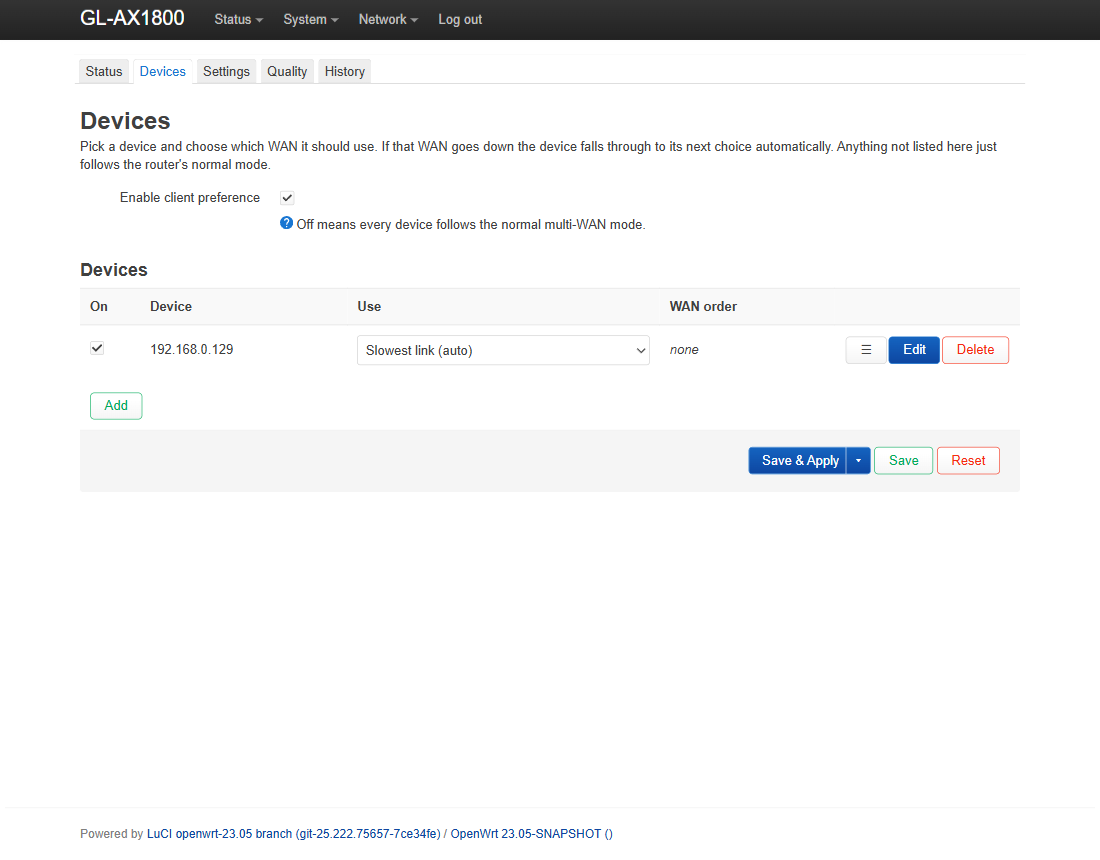
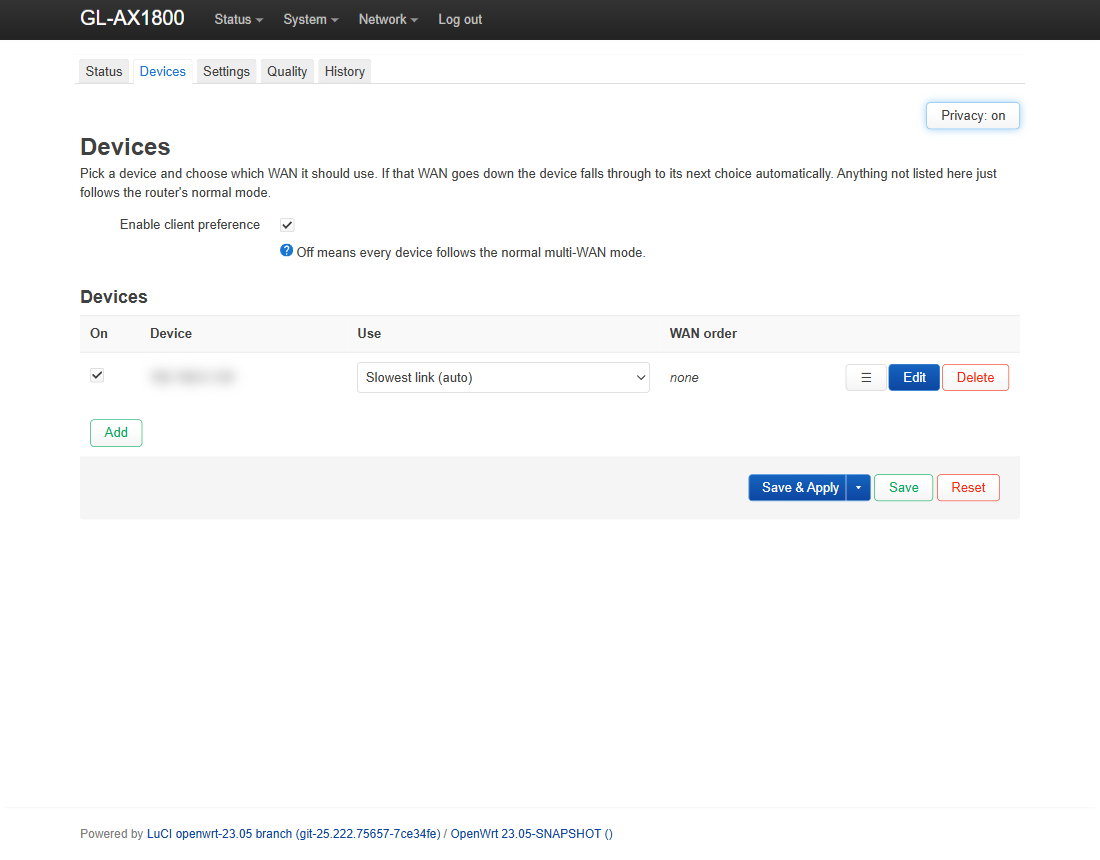
Privacy mode on every tab; tiny README

diff --git a/htdocs/luci-static/resources/multikmwan.js b/htdocs/luci-static/resources/multikmwan.js
@@ -30,4 +30,48 @@ function testTable(tests, limit) {
 
 // LuCI's loader only accepts a class from a module factory (a plain object
 // throws "factory yields invalid constructor"), so export via baseclass.
-return baseclass.extend({ sourceText: sourceText, testTable: testTable });
+// Privacy mode: blur addresses, ISP names, locations, device names and
+// custom server URLs on every MultiKmwan page so a screenshot can be shared
+// as-is. The choice lives in this browser (localStorage) and applies to all
+// tabs; elements opt in with the mk-private class, and LuCI grid cells are
+// matched by their data-name. Nothing leaves the browser.
+var PRIVACY_KEY = 'multikmwan.privacy';
+var PRIVACY_CSS = '.mk-privacy .mk-private,' +
+	'.mk-privacy td[data-name="src"],.mk-privacy td[data-name="label"],' +
+	'.mk-privacy td[data-name="down_url"],.mk-privacy td[data-name="up_url"]' +
+	'{filter:blur(6px);user-select:none}' +
+	'.mk-topbar{display:flex;justify-content:space-between;align-items:center;gap:12px;flex-wrap:wrap}' +
+	'.mk-topbar h2{margin:0}.mk-privacy-btn{white-space:nowrap}';
+
+function privacyOn() {
+	try { return window.localStorage.getItem(PRIVACY_KEY) === '1'; } catch (e) { return false; }
+}
+function applyPrivacy() {
+	try {
+		if (document.documentElement && document.documentElement.classList)
+			document.documentElement.classList.toggle('mk-privacy', privacyOn());
+	} catch (e) { }
+}
+function privacyLabel() { return privacyOn() ? _('Privacy: on') : _('Privacy: off'); }
+
+// A toggle button plus the style it needs; put it in a page header.
+function privacyButton() {
+	var btn = E('button', { 'class': 'cbi-button cbi-button-neutral mk-privacy-btn',
+		'title': _('Blur addresses, providers, locations and device names for screenshots'),
+		'click': function(ev) {
+			if (ev && ev.preventDefault) ev.preventDefault();
+			try { window.localStorage.setItem(PRIVACY_KEY, privacyOn() ? '0' : '1'); } catch (e) { }
+			applyPrivacy();
+			btn.textContent = privacyLabel();
+		} }, privacyLabel());
+	applyPrivacy();
+	return E('span', {}, [ E('style', {}, PRIVACY_CSS), btn ]);
+}
+
+// "<h2>Title</h2> [Privacy]" as one row, for the top of each page.
+function topbar(title, extra) {
+	return E('div', { 'class': 'mk-topbar' }, [ E('h2', {}, title), E('span', {}, [ extra || '', privacyButton() ]) ]);
+}
+
+return baseclass.extend({ sourceText: sourceText, testTable: testTable,
+	privacyOn: privacyOn, privacyButton: privacyButton, topbar: topbar });

diff --git a/htdocs/luci-static/resources/view/multikmwan/overview.js b/htdocs/luci-static/resources/view/multikmwan/overview.js
@@ -228,10 +228,10 @@ return view.extend({
 			if (w.city) where.push(w.city + (w.country ? ', ' + w.country : ''));
 
 			var meta = [
-				E('div', { 'class': 'mk-geo' }, w.pubip
+				E('div', { 'class': 'mk-geo mk-private' }, w.pubip
 					? [ E('b', {}, w.pubip), '   ' + where.join('  ·  ') ]
 					: E('span', { 'class': 'mk-dim' }, _('location not looked up yet'))),
-				E('div', { 'class': 'mk-dim' }, (w.device || '?') + '  ·  ' +
+				E('div', { 'class': 'mk-dim mk-private' }, (w.device || '?') + '  ·  ' +
 					(w.gateway ? 'gw ' + w.gateway : _('no gateway')) +
 					(w.link ? '  ·  ' + _('up ') + dur(w.uptime) : ''))
 			];
@@ -316,8 +316,8 @@ return view.extend({
 				                     : { t: _('pending'), cls: 'mk-warn' }));
 			return E('div', { 'class': 'mk-client' }, [
 				E('span', { 'class': 'mk-pill mk-' + badge.cls }, badge.t),
-				E('b', {}, (c.label && c.label !== '') ? c.label : c.src),
-				E('span', { 'class': 'mk-dim' }, ' ' + c.src + '  →  '),
+				E('b', { 'class': 'mk-private' }, (c.label && c.label !== '') ? c.label : c.src),
+				E('span', { 'class': 'mk-dim mk-private' }, ' ' + c.src + '  →  '),
 				role
 					? E('b', {}, roleLabel[role] || role)
 					: E('span', {}, order.map(function(w, i) {
@@ -634,7 +634,7 @@ return view.extend({
 
 		var body = E('div', {}, [
 			E('style', {}, CSS),
-			E('h2', {}, _('MultiKmwan')),
+			multikmwan.topbar(_('MultiKmwan')),
 			E('div', { 'class': 'mk-mode', 'id': 'mk-mode' }, this.modeText(d)),
 			E('h3', {}, _('Which line loads the internet faster?')),
 			E('div', { 'id': 'mk-ranking' }, this.renderRanking(d)),

diff --git a/tests/ui.test.js b/tests/ui.test.js
@@ -182,6 +182,17 @@ test('progress and carried-forward results are visible on the page', () => {
 	assert.doesNotMatch(overview.renderWans(TWO).textContent, /previous result/);
 });
 
+test('privacy mode marks the sensitive bits and is off outside a browser', () => {
+	assert.equal(shared.privacyOn(), false);
+	assert.match(shared.privacyButton().textContent, /Privacy: off/);
+	assert.match(shared.topbar('MultiKmwan').textContent, /^MultiKmwan.*Privacy: off$/);
+	function classes(n, out) { if (n instanceof Element) { if (n.attrs['class']) out.push(n.attrs['class']); n.children.forEach(c => classes(c, out)); } return out; }
+	const cards = classes(overview.renderWans(TWO), []).filter(c => /mk-private/.test(c));
+	assert.equal(cards.length, 4);   // address+ISP line and device+gateway line, two cards
+	const rules = classes(overview.renderRules({ enabled: '1', wans: [], clients: [{ src: '192.168.0.9', label: 'Laptop', mode: 'fastest', enabled: '1', live: true }] }), []);
+	assert.equal(rules.filter(c => /mk-private/.test(c)).length, 2);
+});
+
 test('mode and source lines stay short', () => {
 	assert.equal(overview.modeText({ now: 1000, mode: 'failover', enabled: '1',
 		autorank: { interval: '15', epoch: '700', decision: 'same-leader' } }),

diff --git a/htdocs/luci-static/resources/view/multikmwan/quality.js b/htdocs/luci-static/resources/view/multikmwan/quality.js
@@ -3,6 +3,7 @@
 'require rpc';
 'require poll';
 'require ui';
+'require multikmwan';
 
 var callQuality = rpc.declare({ object: 'luci.multikmwan', method: 'quality', params: ['hours'] });
 var CSS = '.mq-card{border:1px solid rgba(128,128,128,.3);border-radius:8px;padding:16px;margin:16px 0}' +
@@ -116,7 +117,7 @@ return view.extend({
 			self.hours = Number(ev.target.value); refresh();
 		} }, [ E('option', { value: '1' }, _('Last hour')), E('option', { value: '24', selected: true }, _('Last 24 hours')) ]);
 		poll.add(refresh, 10);
-		return E('div', {}, [ E('style', {}, CSS), E('div', { 'class': 'mq-heading' }, [E('h2', {}, _('Quality & Events')), select]),
+		return E('div', {}, [ E('style', {}, CSS), multikmwan.topbar(_('Quality & Events'), select),
 			E('p', {}, _('Continuous WAN monitoring. Green: responsive · Amber: degraded · Red: unresponsive · Empty: unknown.')),
 			E('p', { 'class': 'mq-note' }, _('Coverage is the observed fraction of the selected window. Sampling gaps are excluded. Recent detail is kept in bounded RAM for up to 24 hours and resets on reboot; daily totals remain in 90-day History. Jitter is the mean RTT change between consecutive replies in a probe batch.')),
 			status, content ]);

diff --git a/htdocs/luci-static/resources/view/multikmwan/clients.js b/htdocs/luci-static/resources/view/multikmwan/clients.js
@@ -4,6 +4,7 @@
 'require uci';
 'require rpc';
 'require ui';
+'require multikmwan';
 
 var callSync    = rpc.declare({ object: 'luci.multikmwan', method: 'sync' });
 var callClients = rpc.declare({ object: 'luci.multikmwan', method: 'clients' });
@@ -95,7 +96,9 @@ return view.extend({
 		o.cfgvalue = function() { return uci.get('multikmwan', 'global', 'interval'); };
 		o.write = function(sid, v) { uci.set('multikmwan', 'global', 'interval', v); };
 
-		return m.render();
+		return m.render().then(function(node) {
+			return E('div', {}, [ E('div', { 'class': 'right' }, multikmwan.privacyButton()), node ]);
+		});
 	},
 
 	// handleSave() only STAGES changes in /tmp/.uci; uci.apply() is what

diff --git a/htdocs/luci-static/resources/view/multikmwan/mode.js b/htdocs/luci-static/resources/view/multikmwan/mode.js
@@ -4,6 +4,7 @@
 'require uci';
 'require rpc';
 'require ui';
+'require multikmwan';
 
 var callSetMode = rpc.declare({ object: 'luci.multikmwan', method: 'setmode',
                                 params: [ 'mode' ] });
@@ -387,7 +388,7 @@ return view.extend({
 					'style': 'margin-left:8px',
 					'click': function(ev) { ev.preventDefault(); browseSpeedtestNet(); }
 				}, _('Browse speedtest.net')));
-			return E('div', {}, nodes);
+			return E('div', {}, [ E('div', { 'class': 'right' }, multikmwan.privacyButton()) ].concat(nodes));
 		});
 	},
 

diff --git a/htdocs/luci-static/resources/view/multikmwan/history.js b/htdocs/luci-static/resources/view/multikmwan/history.js
@@ -93,7 +93,7 @@ return view.extend({
 
 		var body = E('div', {}, [
 			E('style', {}, CSS),
-			E('h2', {}, _('90-Day History')),
+			multikmwan.topbar(_('90-Day History')),
 			E('p', {}, _('Rolled up one row per WAN per day and kept for 90 days. ' +
 				'Uptime is the share of health checks that answered; speeds are from ' +
 				'the periodic tests.'))

diff --git a/README.md b/README.md
@@ -1,94 +1,31 @@
 # MultiKmwan
 
-**A LuCI web UI for GL.iNet's built-in multi-WAN engine (`kmwan`).** It lets you switch between failover, load-balance, and a "fastest" mode; give individual LAN devices a preferred WAN (a specific order, or a role that follows measurements: fastest, slowest, or backup); speed-test each line (against a public server or your own), time DNS lookups and real page loads over each line, and auto-rank the best with hysteresis so it doesn't flap; flag metered links as backup-only; and keep 90 days of per-WAN uptime, outage and speed history — all by driving the stock `kmwan` module rather than replacing it, so nothing about your GL.iNet setup is forked or lost.
+A LuCI page for GL.iNet's built-in multi-WAN (`kmwan`). It tells you which line is faster for real use, not just on a speed test: throughput, how fast real websites answer, latency and DNS, measured over each line from the router. It keeps the best line primary, lets you pin devices to a line, and keeps 90 days of history.
 
 | Status | Quality |
 |---|---|
 | ![Status](screenshots/status.png) | ![Quality](screenshots/quality.png) |
 
-| Settings | Devices |
-|---|---|
-| ![Settings](screenshots/mode.png) | ![Devices](screenshots/clients.png) |
-
-| History | |
-|---|---|
-| ![History](screenshots/history.png) | |
-
 ## Install
 
-LuCI on GL.iNet is on **port 8080**. Download the `.ipk` from [Releases](../../releases):
+Grab the `.ipk` from [Releases](../../releases), then (LuCI is on port 8080; the router's `scp` needs `-O`):
 
 ```sh
-scp luci-app-multikmwan_*.ipk root@192.168.8.1:/tmp/
+scp -O luci-app-multikmwan_*.ipk root@192.168.8.1:/tmp/
 ssh root@192.168.8.1 "opkg install /tmp/luci-app-multikmwan_*.ipk"
 ```
 
-Then open **Network → MultiKmwan** (tabs: Status, Devices, Settings, Quality, History). Links that are disabled in kmwan are not shown on the Status page; a footnote lists them. Requires a GL.iNet 4.x device with `kmwan` and LuCI; the package is architecture-independent.
+Open **Network → MultiKmwan**. Needs a GL.iNet 4.x router with `kmwan`. Tested on a GL-AX1800.
 
-**Tested on:** GL-AX1800 (Flint), OpenWrt 23.05 / GL SDK4, `kmwan` 5.4.164, with three wired WANs.
+## Notes
 
-## Documentation
+- **Fastest** ranks lines by throughput (40%), website response (25%), latency (20%) and DNS (15%); weights are on Settings.
+- A speed-test server can be a **web page** (Facebook is included), so you see what a line delivers for real content, not a speedtest fast lane.
+- **Privacy** on any tab blurs addresses, providers, locations and device names for screenshots.
+- Details, how it works and the changelog are in the [release notes](../../releases) and the [wiki](../../wiki).
 
-Full docs — features, configuration, CLI, how it works, building from source, and FAQ (including "how do I use speedtest.net?") — are in the **[Wiki](../../wiki)**.
+Build and test: `python build.py`, `python -m unittest discover -s tests`, `node --test tests/ui.test.js`.
 
-**New in 1.1.0: Quality**
+## Built by AI
 
-- An independent background monitor continues collecting while speed tests, geolocation and routing jobs run.
-- The new Quality page shows 1-hour / 24-hour latency and connection-state timelines, batch jitter, sampled packet loss, freshness, coverage, and outage/recovery events.
-- Missing or stale observations are unknown. Disabled WANs are not counted as failures. Configured WANs remain visible when their device disappears.
-- Today's daily totals appear immediately in History. Recent details are bounded in RAM (up to 24 hours, 16,384 samples and 512 events) and reset on reboot; the existing daily history is checkpointed hourly.
-- Speed tests identify the selected profile, manual/scheduled type, actual download/upload destination hosts (including redirects), and per-direction success/failure. Profile labels are saved at measurement time. The last 256 attributed results are checkpointed hourly and shown in History; a sudden power loss can lose the newest results. URL paths, query tokens and credentials are excluded from recorded attribution.
-- HTTP errors and incomplete transfers cannot be ranked as successful tests. Busy-link skips retain the original timestamp and do not add duplicate history samples.
-- A transfer that fails (a stalled stream, a server hiccup) is retried once after two seconds, per direction. If the run still fails, the link keeps its last good result for up to six hours instead of dropping out of the ranking, the failed attempt stays in the speed-test log, and the Status card says it is showing the previous result. Auto-rank never demotes the current leader on a round in which it has no score.
-- The Status page shows a running speed or website test in place: which link, which step, and "2 of 3"; the link's card is tagged while it is being tested and the test buttons are disabled until the run ends.
-
-The first configured `kmwan` probe target is used per IPv4 WAN. An unresponsive target is evidence of a probe failure, not proof of a whole-ISP outage. Gaps longer than three configured intervals are excluded from coverage and cannot establish a recovery duration. Failures shorter than the probe interval may go undetected. Jitter is the mean absolute difference between successive successful RTTs within each three-ping batch. Degradation currently means any packet loss or mean RTT above 250 ms.
-
-Test results are HTTP transfer measurements made by MultiKmwan against the displayed cloud service or custom endpoint; they are not official Cloudflare or Ookla scores. Old results without attribution are labeled as unrecorded. Daily speed aggregates can mix sources. Monitoring does not change routing based on quality in this release.
-
-**New in 1.1.0: "Fastest" now means fastest to use, not just fastest to download**
-
-A link with the most Mbps can still feel slow if its round trips are long, its resolver is sluggish or the big CDNs are far away. The Fastest mode, the "Rank WANs now" button and the Fastest / Slowest client roles therefore rank links by a composite score, on by default:
-
-- **Throughput** (download + upload, or one direction, as before) from the speed test.
-- **Website response**: over each WAN, one HTTPS fetch of each test page, recording time to first byte and full page time. Default pages are Facebook, YouTube, Google Drive and Reddit; change them on the Settings page. Redirects count as a response, so a login or consent page is fine.
-- **Latency**: the mean ping round trip to each link's probe target over the last 5 minutes, taken from the background monitor's samples (no extra traffic; the latest health probe stands in until the monitor has filled a window).
-- **DNS lookup**: over each WAN, a DNS-over-HTTPS query for each page's hostname, timing only the query round trip. A plain UDP lookup goes through dnsmasq and leaves on whichever WAN the routing table prefers, so it cannot be attributed to one link; a DoH request bound to the device can. The answer is pinned for the page fetch, so the fetch measures that WAN alone rather than dnsmasq's cache.
-
-Each component is the WAN's figure relative to the best WAN, weighted 40% throughput, 25% website response, 20% latency, 15% DNS (adjustable). Only pages that every link loaded are compared, so a page one link could not fetch cannot tilt the result; a link with no website result or no latency sample gets no credit for those components, and a component no link could measure drops out of the weighting. Choose "Throughput only" on the Settings page to get the old behaviour. The Status page shows each WAN's score (hover for the breakdown), DNS and first-byte times, a "Test websites" button and a per-site table. Auto-rank runs the website test right after the speed test; the auto-rank margin applies to the score. Existing installs switch to the composite on upgrade without any configuration change.
-
-Website figures are measured from the router with curl, so they include the router's own TLS handshake time; that overhead is the same on every link and does not affect the ranking.
-
-**Speed-testing a real site.** ISPs often give speedtest servers a fast lane that real content never gets, so a speed-test server profile can now be a **web page** instead of a file (Type: "Web page — its real content"). The test fetches the page, finds the scripts, styles and images it references, downloads each once as a browser would, then has the parallel streams pull the largest one repeatedly from the site's CDN, with connection reuse, until the test size is met. A "Facebook (real content)" profile is seeded. Every "Web page" profile is also measured during each website test and shown per line on the Status page (a "Facebook" column in the ranking table and a figure on each card), so you see who loads Facebook faster without changing the speed-test server. Pick it as the speed-test server on the Settings page and every speed test, auto-rank and the Fastest ranking measure what the lines deliver for Facebook instead (upload still uses the fallback URL). Add YouTube or any other site the same way. From the shell, `MK_SERVER=facebook multikmwan speedtest` runs one test against a profile without changing the configured server. On the test router the Ookla server reported 547 vs 495 Mbps for two lines while Facebook's CDN delivered 474 vs 539 Mbps, the other way round. Small test sizes understate real-content throughput because each stream starts cold; 25 MB per direction gives a fair figure.
-
-Version 1.1.0 uses `flock` for crash-safe file locking. On OpenWrt and GL.iNet firmware that is a BusyBox applet, so nothing extra is needed and it is deliberately not a package dependency (GL.iNet's feeds do not carry the util-linux `flock` package, which would make this package uninstallable). The install script warns if `flock` is missing. BusyBox `flock` has no `-w` timeout, so waits are polled with `-n`. Note that the router's dropbear has no SFTP server, so a current OpenSSH `scp` needs `-O`:
-
-```sh
-scp -O luci-app-multikmwan_1.1.0-1_all.ipk root@192.168.8.1:/tmp/
-ssh root@192.168.8.1 "opkg install /tmp/luci-app-multikmwan_1.1.0-1_all.ipk"
-```
-
-Build locally with Python 3 (Windows or Unix):
-
-```sh
-python build.py
-python -m unittest discover -s tests -v
-node --test tests/ui.test.js
-python tests/check_package.py
-```
-
-The shell/AWK behavior tests use Git Bash on Windows and `/bin/sh` on Unix; the native locking test requires Linux with `flock`. Browser rendering can be previewed with synthetic data using `python tests/browser-preview.py`, then opening `build/preview.html`. The new release needs on-router validation of probe egress, resource use and service lifecycle on your GL.iNet firmware. See the [roadmap](docs/orb-feature-roadmap.md) for later diagnostics, alerts and quality-based routing work.
-
-## ⚠ Built by AI — read before you run it
-
-This project was written by **Claude (Anthropic's AI)** in a single interactive session, developing directly against a live GL-AX1800 over SSH. A human directed it and it was tested on real hardware, but **no line was hand-written by a person.** It's networking code that runs as root on your router, so treat it accordingly:
-
-- The source is **heavily commented with the reasoning** behind each non-obvious choice (why the `.ipk` is a tar.gz not an `ar`, why history uses an in-RAM accumulator, why `kmwan` only has two real modes, etc.) — read those comments; they are the design docs.
-- Review the shell and JS yourself, or have someone you trust do so, before deploying on a network you care about.
-- It's released into the public domain (below), with **no warranty** — you own the outcome.
-
-If that trade-off isn't for you, that's completely fair.
-
-## License
-
-Public domain — [the Unlicense](LICENSE). Do whatever you want; no conditions, no attribution required.
+Written by Claude (Anthropic) against a live router, directed and tested by a human. It runs as root on your router: read it before you trust it. Public domain, no warranty ([Unlicense](LICENSE)).
